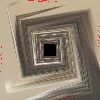
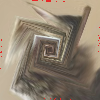
Fix bug with incomplete middle

diff --git a/levels/level_14.py b/levels/level_14.py
@@ -26,6 +26,8 @@ def process_image(img_path):
         # What metadata can we get from the image?
         width, height = im.size
 
+        print(f"{width=}, {height=}")
+
         print(im.format, im.size, im.mode)
 
         metadata = im.info
@@ -45,9 +47,9 @@ def process_image(img_path):
         for x in range(width):
             pixel = pixels[x, 0]
 
-            out_x = x % 100
+            out_x = x % 99
 
-            if counter < 100:
+            if counter < 99:
                 output_pixels[out_x, out_y] = pixel
                 counter += 1
             else:
@@ -83,6 +85,8 @@ def uzumaki(img_path):
             "right": 99
         }
 
+        # When we change direction, we aren't starting from 0 on the new axis
+
         for x in range(width):
             pixel = pixels[x, 0]
             # Write each line by spiralling round the output image clockwise
@@ -99,6 +103,8 @@ def uzumaki(img_path):
                     limits["right"] -= 1
                     print(f"{limits['right']=}")
                     direction = "down"
+                    # We are finished with the row, so increment y
+                    out_y += 1
 
             if direction == "down":
                 if out_y < limits["lower"]:
@@ -110,6 +116,8 @@ def uzumaki(img_path):
                     output_pixels[out_x, out_y] = pixel
                     limits["lower"] -= 1
                     direction = "left"
+                    # Finished with this row, de-increment x
+                    out_x -= 1
 
             if direction == "left":
                 if out_x > limits["left"]:
@@ -120,6 +128,8 @@ def uzumaki(img_path):
                     output_pixels[out_x, out_y] = pixel
                     limits["left"] += 1
                     direction = "up"
+                    # Finished with this row, deincrement y
+                    out_y -= 1
 
             if direction == "up":
                 if out_y > limits["upper"]:
@@ -130,6 +140,8 @@ def uzumaki(img_path):
                     output_pixels[out_x, out_y] = pixel
                     limits["upper"] += 1
                     direction = "right"
+                    # Finished with this row, increment x
+                    out_x += 1
 
         output_image.save(OUTPUT_IMG_PATH)
 
